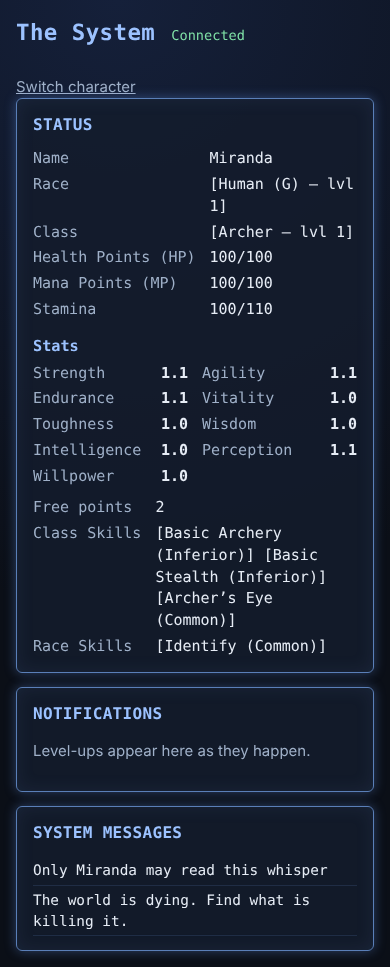
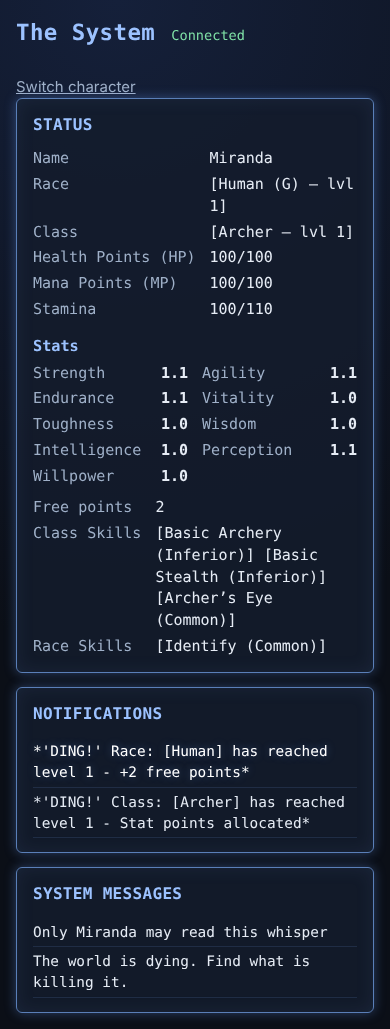
fix(MS.2): address review round 1 (resend this run's DINGs on join, track lastSeq from notifications, show gap notice)
Claude-Session: https://claude.ai/code/session_01AU3yrceuRJdQHHsAKdMneb

diff --git a/apps/web/src/live.ts b/apps/web/src/live.ts
@@ -43,6 +43,8 @@ export interface LiveSnapshot {
   state: CampaignState | null;
   view: PlayerView | null;
   notifications: SeqNotification[];
+  /** The server could not resend everything since our last seq (restart or history cap). */
+  gap: boolean;
 }
 
 export type CommandResult = { ok: true } | { ok: false; error: string };
@@ -58,11 +60,13 @@ export class LiveClient {
     state: null,
     view: null,
     notifications: [],
+    gap: false,
   };
   private readonly listeners = new Set<(s: LiveSnapshot) => void>();
   private readonly pending = new Map<string, (r: CommandResult) => void>();
   private nextRequest = 0;
-  private lastSeq: number | undefined;
+  /** 0 on first join: the server resends this run's notifications, so a fresh page still has its DINGs. */
+  private lastSeq = 0;
   private closed = false;
   private retry: ReturnType<typeof setTimeout> | null = null;
   private readonly join: JoinAs;
@@ -135,9 +139,7 @@ export class LiveClient {
           this.join.role === 'gm'
             ? { type: 'join', role: 'gm', gmKey: this.join.gmKey }
             : { type: 'join', role: 'player', characterId: this.join.characterId };
-        socket.send(
-          JSON.stringify(this.lastSeq === undefined ? join : { ...join, lastSeq: this.lastSeq }),
-        );
+        socket.send(JSON.stringify({ ...join, lastSeq: this.lastSeq }));
         return;
       }
       case 'joined':
@@ -154,8 +156,12 @@ export class LiveClient {
       case 'notifications': {
         const known = new Set(this.snapshot.notifications.map(keyOf));
         const fresh = message.items.filter((n) => !known.has(keyOf(n)));
-        if (fresh.length) {
-          this.update({ notifications: [...this.snapshot.notifications, ...fresh] });
+        for (const n of message.items) this.lastSeq = Math.max(this.lastSeq, n.seq);
+        if (fresh.length || message.gap) {
+          this.update({
+            notifications: [...this.snapshot.notifications, ...fresh],
+            gap: this.snapshot.gap || message.gap,
+          });
         }
         return;
       }

diff --git a/e2e/MS.2.spec.ts b/e2e/MS.2.spec.ts
@@ -104,11 +104,14 @@ test('a player picks a character and watches the GM’s changes land live', asyn
 
   await player.screenshot({ path: path.join(shots, 'player-1366x768.png') });
 
-  // Reloading keeps the messages (they live in the view, not only in the feed).
+  // Reloading keeps the messages (they live in the view) and this run's DINGs
+  // (the server resends them on join), with no "missed" warning.
   await player.reload();
   await expect(player.getByTestId('messages')).toHaveText(
     'The world is dying. Find what is killing it.',
   );
+  await expect(player.getByTestId('dings').getByRole('listitem')).toHaveCount(2);
+  await expect(player.getByTestId('gap')).toHaveCount(0);
 
   // Canary: nothing GM-only or meant for Miranda reached Jake's browser.
   const all = frames.join('\n');
@@ -124,6 +127,8 @@ test('a player picks a character and watches the GM’s changes land live', asyn
   await phone.getByRole('link', { name: /Miranda/ }).click();
   await expect(phone.getByTestId('name')).toHaveText('Miranda');
   await expect(phone.getByTestId('messages')).toContainText(WHISPER);
+  // A player who joins after the award still sees their own DINGs, not Jake's.
+  await expect(phone.getByTestId('dings').getByRole('listitem')).toHaveCount(2);
   const width = await phone.locator('html').evaluate((el) => el.scrollWidth);
   expect(width).toBeLessThanOrEqual(390);
   await phone.screenshot({ path: path.join(shots, 'player-390x844.png'), fullPage: true });

diff --git a/apps/web/src/player/PlayerScreen.tsx b/apps/web/src/player/PlayerScreen.tsx
@@ -169,6 +169,11 @@ function Feed({ live, view }: { live: LiveSnapshot; view: PlayerView }) {
     <div className="feeds">
       <section className="window feed" aria-labelledby="dings">
         <h2 id="dings">Notifications</h2>
+        {live.gap && (
+          <p className="muted" data-testid="gap">
+            Older notifications are not available (the System restarted); your sheet is up to date.
+          </p>
+        )}
         {dings.length === 0 ? (
           <p className="muted">Level-ups appear here as they happen.</p>
         ) : (
